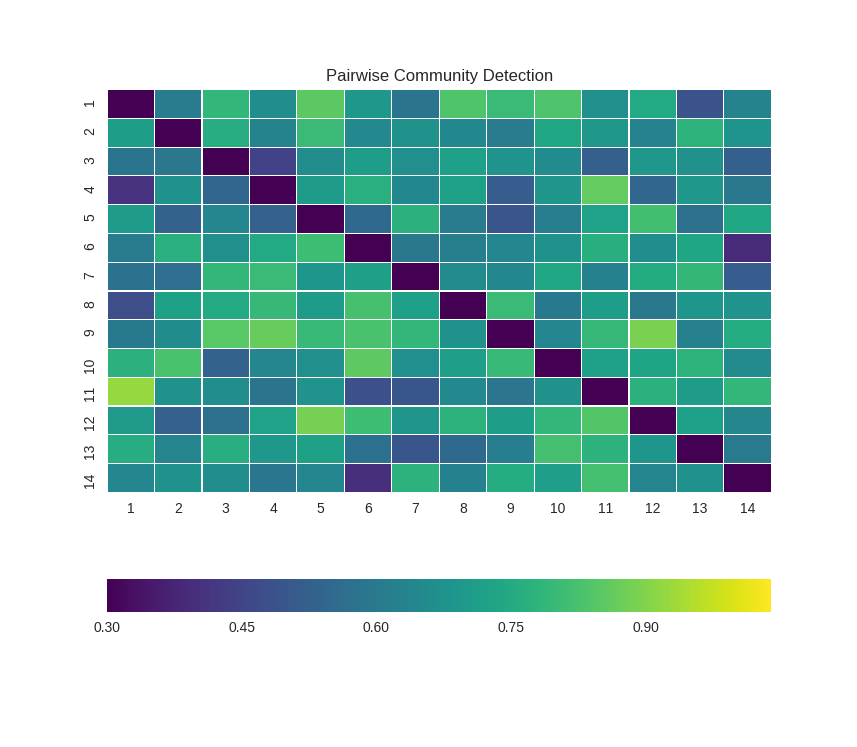
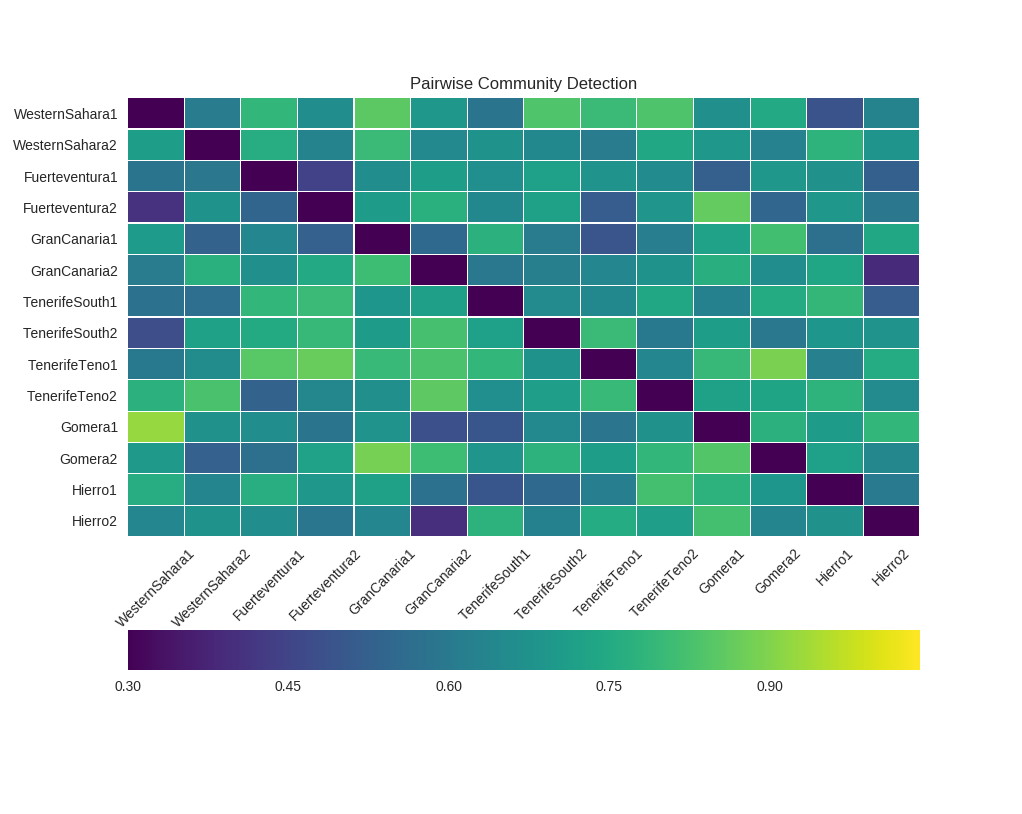
Add multiple measures barplot and images

diff --git a/cmnty_detect.py b/cmnty_detect.py
@@ -239,12 +239,21 @@ def two_site_community_detection():
             train_site = int(site_pair[0]) - 1
             test_site = int(site_pair[1]) - 1
             hm_npa[train_site, test_site] = calc_auc
+        
+        xy_labels = [0] * 14
+        for file_name in os.listdir(os.path.join("data", "sites")):
+            site_num = int(re.findall(r'\d+', file_name)[0])
+            site_name = file_name.split('_')[-1].split('.')[0]
+            xy_labels[site_num-1] = site_name
+
         ax = sns.heatmap(hm_npa, cmap="viridis", cbar=True,
                          vmin=0.3, vmax=1.0,
                          linewidths=0.1, center=0.67,
-                         xticklabels=[i for i in range(1, 15)],
-                         yticklabels=[i for i in range(1, 15)],
+                         xticklabels=xy_labels,
+                         yticklabels=xy_labels,
                          cbar_kws={'orientation': 'horizontal'})
+        plt.yticks(rotation=0)
+        plt.xticks(rotation=45)
         plt.title("Pairwise Community Detection")
         sns.plt.show()
 
@@ -254,8 +263,38 @@ def two_site_community_detection():
         plt.title("AUC Histogram")
         sns.plt.show()
 
-    plot_pairwise_auc()
-    plot_auc_histogram()
+    def plot_multiple_measures():
+        """Barplot comparing 1-Jenson-Shannon and Community structure
+        edge prediction"""
+        cd_npa = np.zeros((14, 14))
+        for site_pair, calc_auc in all_auc.items():
+            train_site = int(site_pair[0]) - 1
+            test_site = int(site_pair[1]) - 1
+            cd_npa[train_site, test_site] = calc_auc
+        
+        cd_avg = np.mean(cd_npa, axis=0)
+
+        meas_df = pd.read_csv(os.path.join("data", "multple_measures.csv"),
+                              header=0, index_col=0)
+        meas_df["Avg AUC"] = cd_avg
+        meas_df.reset_index(level=0, inplace=True)
+        meas_df.columns = ["Site", "NDC", "JSD", "CD"]
+        meas_df["1-JSD"] = 1.0 - meas_df["JSD"]
+        meas_df = meas_df[["Site", "1-JSD", "CD"]]
+        meas_df.sort_values(by=["1-JSD", "CD"], ascending=False, inplace=True)
+        meas_long_df = pd.melt(meas_df, id_vars=["Site"],
+                               value_vars=["1-JSD", "CD"])
+
+        ax = sns.barplot(x="Site", y="value", hue="variable",
+                         data=meas_long_df, palette="Greens_d")
+        plt.xticks(rotation=45)
+        plt.ylabel("Average value")
+        plt.legend(bbox_to_anchor=(1.05, 1), loc=2, borderaxespad=0.)
+        sns.plt.show()
+
+    # plot_pairwise_auc()
+    # plot_auc_histogram()
+    # plot_multiple_measures()
 
 #
 if __name__ == "__main__":
